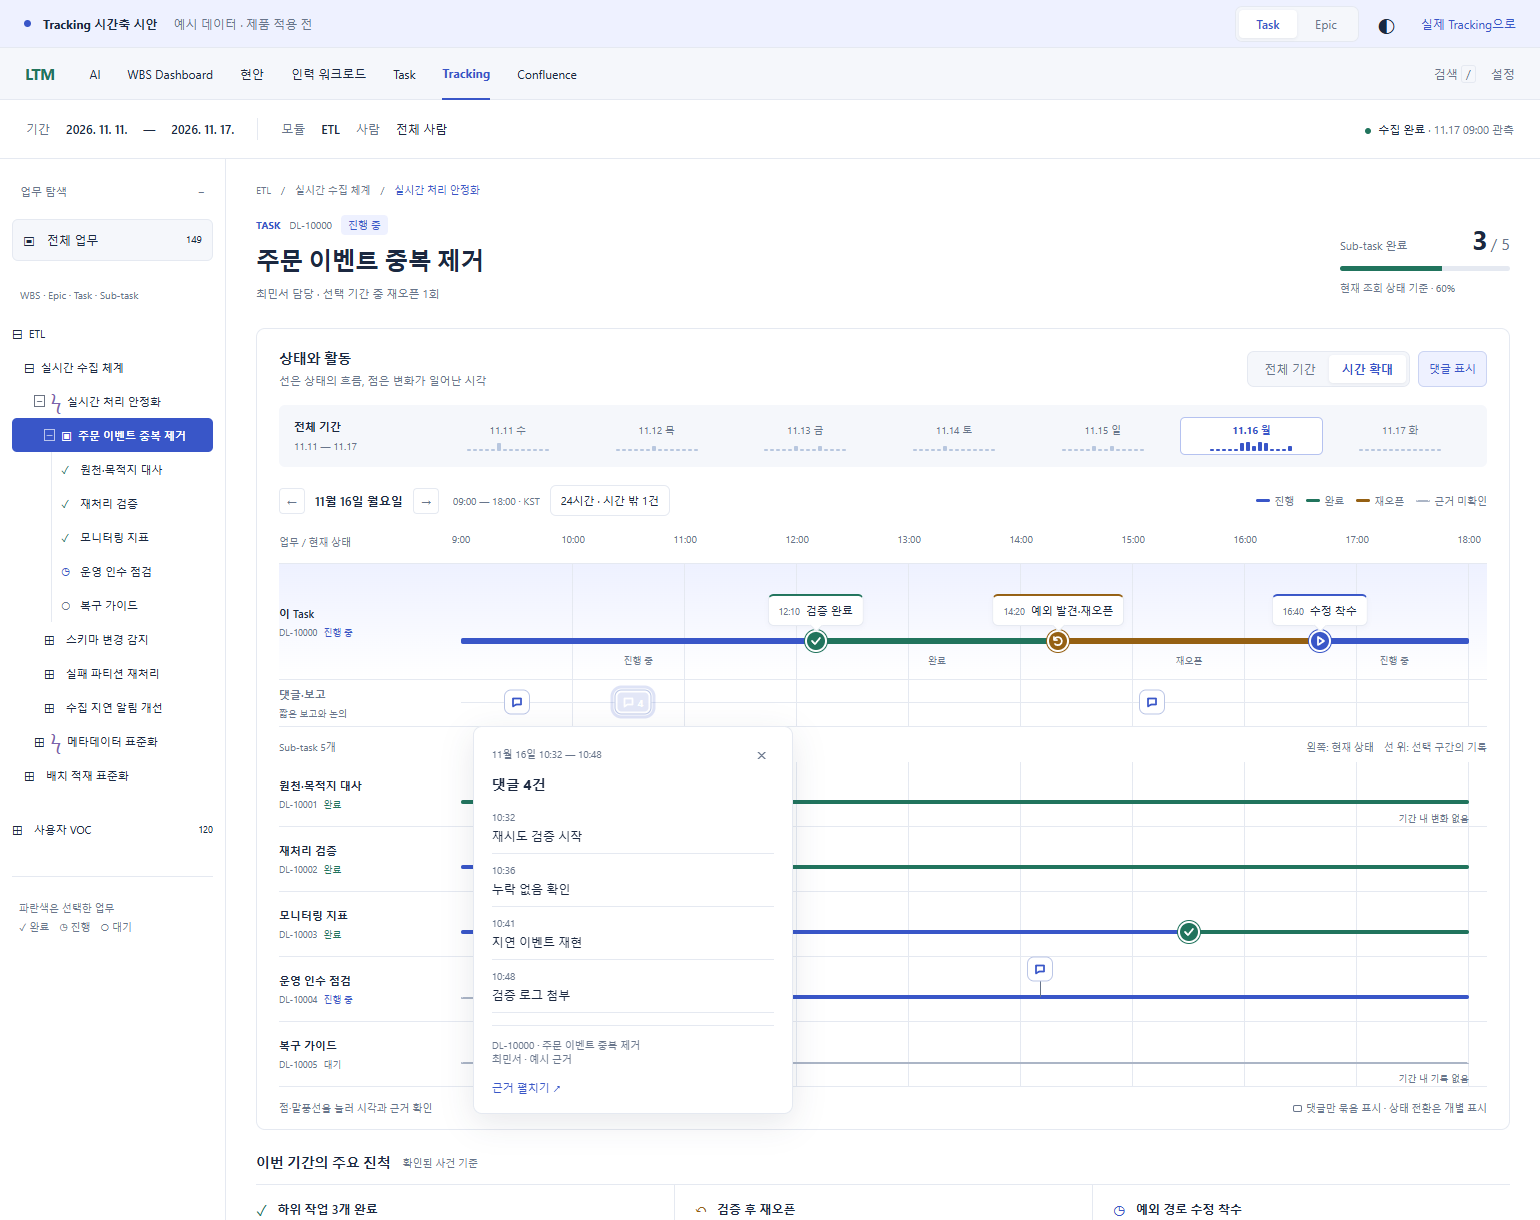
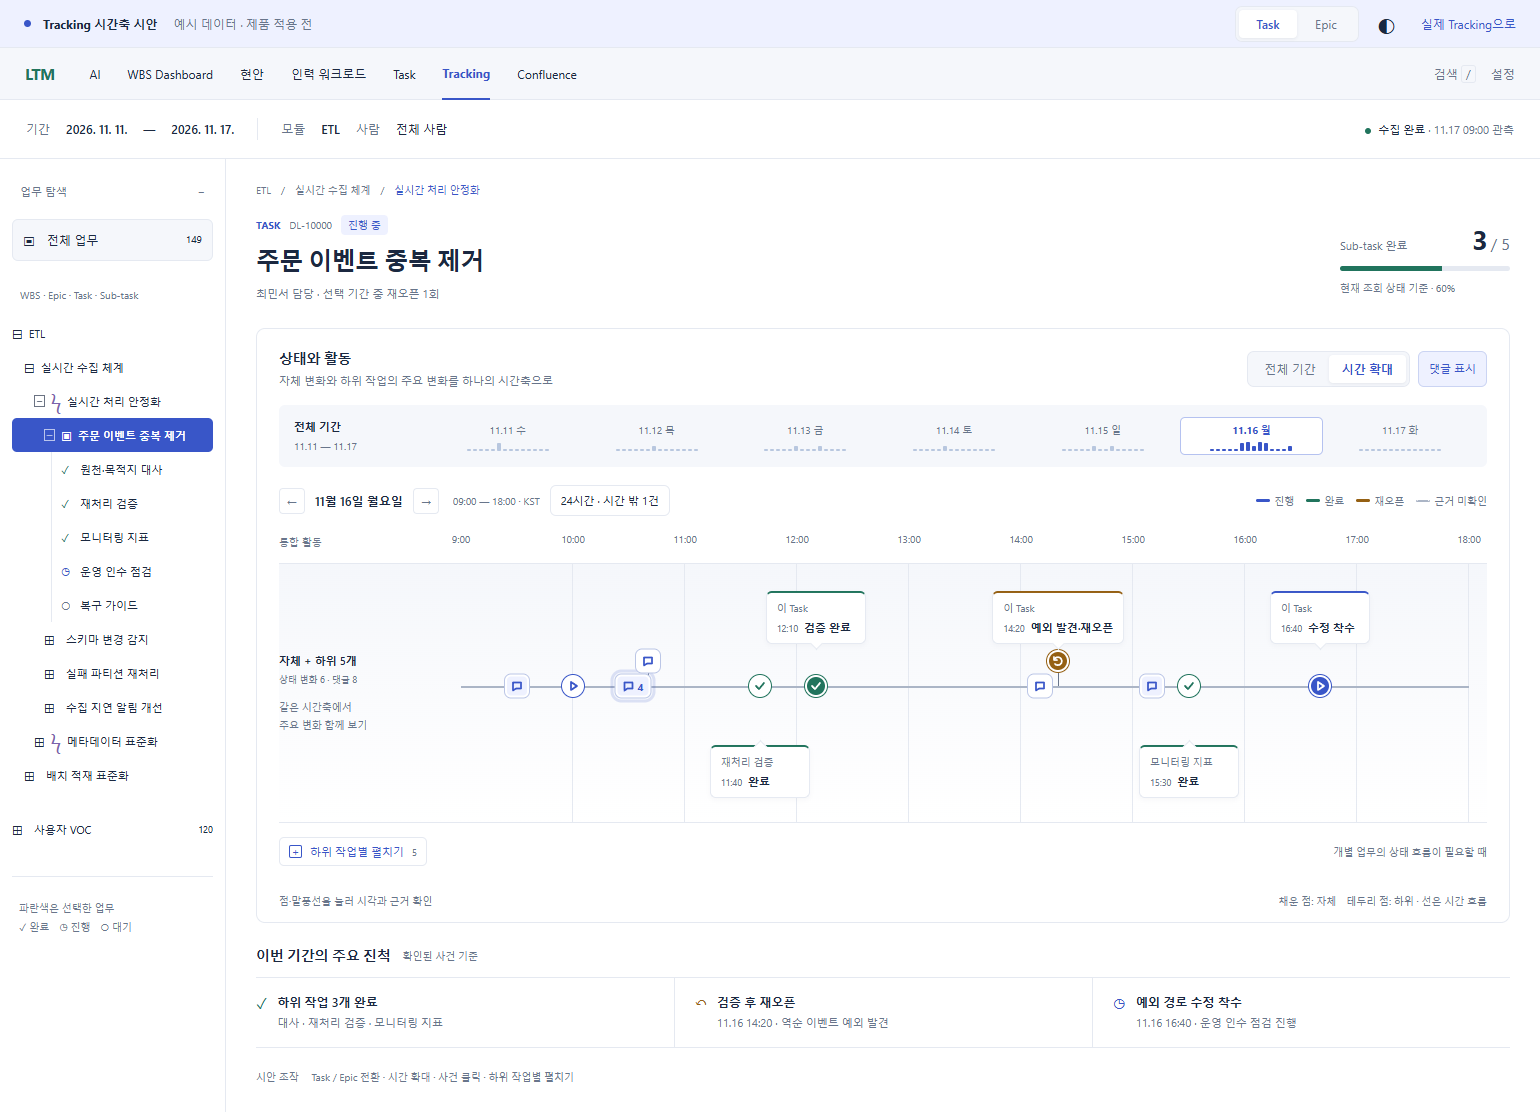
design(tracking): combine hierarchy events on the default timeline

diff --git a/app/static/design/tracking-time-axis.js b/app/static/design/tracking-time-axis.js
@@ -31,7 +31,7 @@ const epicChildren=[parent,
  {key:'DL-10060',title:'운영 가이드 정리',person:'이준서',current:'대기',events:[],comments:[]}
 ];
 const epic={key:'DL-101',title:'실시간 처리 안정화',rowLabel:'이 Epic',person:'최민서',current:'진행 중',events:[ev(12,9,30,'start','Epic 진행 시작','수집 안정화 작업의 개발·검증 착수.','progress')],comments:[ev(16,17,20,'note','인수 범위 재확인','중복 제거의 재오픈 경로를 포함해 운영 인수 범위 재확인.')]};
-let mode='task',scale='day',day=16,comments=true,fullDay=false,registry=[],activeTrigger=null;
+let mode='task',scale='day',day=16,comments=true,fullDay=false,expandedChildren=false,registry=[],activeTrigger=null;
 const color=s=>({progress:'blue',done:'green',reopen:'amber',new:'idle'}[s]||'unknown');
 const label=s=>({progress:'진행 중',done:'완료',reopen:'재오픈',new:'대기'}[s]||'근거 미확인');
 function range(){return scale==='day'?(fullDay?[at(day,0),at(day+1,0)]:[at(day,9),at(day,18)]):[at(11,0),at(18,0)];}
@@ -47,6 +47,26 @@ function groups(items){
   const last=out.at(-1);if(last&&e.at-last.at<threshold)last.members.push(e);else out.push({...e,members:[e]});
  }
  return out.map(e=>e.members.length>1?{...e,title:`댓글 ${e.members.length}건`}:e.members[0]);
+}
+function combinedAxis(owner,rows){
+ const [a,b]=range(),sources=[owner,...rows];
+ const changes=sources.flatMap(row=>row.events.filter(e=>e.at>=a&&e.at<=b).map(event=>({event,row})));
+ const notes=comments?sources.flatMap(row=>groups(row.comments).map(event=>({event,row}))):[];
+ const items=[...changes,...notes].sort((a,b)=>a.event.at-b.event.at||a.row.key.localeCompare(b.row.key));
+ let last=-100,stack=0;
+ const marks=items.map(({event,row})=>{const pos=x(event.at);stack=pos-last<3.5?stack+1:0;last=pos;
+  return dot(event,row,(event.members?'cluster ':'')+(row===owner?'own-marker':'child-marker'),stack?[0,-25,25,-50,50][stack%5]:0,122);
+ }).join('');
+ const trackEnds=[-100,-100];let callouts='';
+ for(const {event,row} of changes.filter(({event,row})=>['done','reopen'].includes(event.kind)||row===owner&&event.kind==='start')){
+  const pos=x(event.at);if(pos<10||pos>90)continue;
+  const track=trackEnds.findIndex(end=>pos-end>=20);if(track<0)continue;trackEnds[track]=pos;
+  const id=remember(event,row),source=row===owner?(mode==='task'?'이 Task':'이 Epic'):row.title;
+  const short=row===owner?event.title:({done:'완료',reopen:'재오픈',start:'진행 시작'}[event.kind]||event.title);
+  callouts+=`<button class="bubble summary-callout ${track?'below':''} ${event.kind==='done'?'done':event.kind==='reopen'?'reopen':'blue-top'}" style="--x:${pos}%;--callout-y:${track?181:27}px" data-event="${id}" aria-label="${esc(full(event.at)+' '+row.title+' '+event.title+' 근거')}"><span class="summary-source">${esc(source)}</span><span class="time">${scale==='period'?full(event.at):fmt(event.at)}</span><strong>${esc(short)}</strong></button>`;
+ }
+ const noteCount=notes.reduce((sum,{event})=>sum+(event.members?.length||1),0);
+ return `<div class="lane combined" data-change-count="${changes.length}" data-comment-count="${noteCount}"><div class="lane-label"><div class="lane-title">자체 + 하위 ${rows.length}개</div><div class="lane-meta">상태 변화 ${changes.length} · 댓글 ${noteCount}</div><p class="summary-label-note">같은 시간축에서<br>주요 변화 함께 보기</p></div><div class="lane-body" style="--rail-y:122px;height:258px"><div class="rail"></div>${marks}${callouts}${items.length?'':'<span class="summary-empty">이 구간에 확인된 활동 없음</span>'}</div></div>`;
 }
 function lane(row,primary=false,commentOnly=false){
  const [a,b]=range(),events=row.events.filter(e=>e.at>=a&&e.at<=b),all=row.events.filter(e=>e.at<=b).sort((a,b)=>a.at-b.at);
@@ -88,7 +108,9 @@ function render(){
  const outside=(mode==='task'?[parent,...rows]:[epic,...rows]).flatMap(r=>[...r.events,...r.comments]).filter(e=>e.at>=at(day,0)&&e.at<at(day+1,0)&&(e.at<at(day,9)||e.at>at(day,18))).length;
  $('#fullDay').hidden=scale==='period';$('#fullDay').textContent=fullDay?'09–18시 보기':outside?`24시간 · 시간 밖 ${outside}건`:'24시간 보기';$('#fullDay').setAttribute('aria-pressed',String(fullDay));
  $('#ticks').innerHTML=scale==='day'?(fullDay?Array.from({length:9},(_,i)=>`<time class="tick" style="left:${i/8*100}%">${i*3}:00</time>`).join(''):Array.from({length:10},(_,i)=>`<time class="tick" style="left:${i/9*100}%">${9+i}:00</time>`).join('')):Array.from({length:8},(_,i)=>`<time class="tick" style="left:${i/7*100}%">11.${11+i} 00시</time>`).join('');
- $('#lanes').innerHTML=(mode==='task'?lane(parent,true)+(comments?lane(parent,false,true):''):lane(epic))+`<div class="group-heading"><span>${mode==='task'?'Sub-task':'하위 Task'} ${rows.length}개</span><span>왼쪽: 현재 상태　선 위: 선택 구간의 기록</span></div>`+rows.map(r=>lane(r)).join('');
+ $('#lanes').innerHTML=combinedAxis(mode==='task'?parent:epic,rows);
+ $('#childrenToggle').innerHTML=`<span class="fold-symbol">${expandedChildren?'−':'+'}</span>하위 작업별 ${expandedChildren?'접기':'펼치기'} <small>${rows.length}</small>`;$('#childrenToggle').setAttribute('aria-expanded',String(expandedChildren));
+ $('#childLanes').hidden=!expandedChildren;$('#childLanes').innerHTML=expandedChildren?`<div class="group-heading"><span>${mode==='task'?'Sub-task':'하위 Task'}별 상태 흐름</span><span>위 통합 축과 같은 사건 · 선은 각 업무의 상태</span></div>`+rows.map(r=>lane(r)).join(''):'';
  $$('.lane-body').forEach(e=>e.style.backgroundSize=scale==='day'?(fullDay?'112.5% 100%':'100% 100%'):'128.5714% 100%');
  $('#chartHint').textContent=scale==='day'?'점·말풍선을 눌러 시각과 근거 확인':'날짜를 눌러 시간 확대 · 간격은 실제 경과 시간';
  $('#resultItems').innerHTML=mode==='task'?'<div class="result-item"><span class="result-icon">✓</span><div><b>하위 작업 3개 완료</b><p>대사 · 재처리 검증 · 모니터링 지표</p></div></div><div class="result-item"><span class="result-icon" style="color:var(--amber)">↶</span><div><b>검증 후 재오픈</b><p>11.16 14:20 · 역순 이벤트 예외 발견</p></div></div><div class="result-item"><span class="result-icon" style="color:var(--blue)">◷</span><div><b>예외 경로 수정 착수</b><p>11.16 16:40 · 운영 인수 점검 진행</p></div></div>':'<div class="result-item"><span class="result-icon">✓</span><div><b>Task 3개 완료</b><p>스키마 감지 · 재처리 · 지연 알림</p></div></div><div class="result-item"><span class="result-icon" style="color:var(--amber)">↶</span><div><b>중복 제거 Task 재확인</b><p>검증 이후 예외 발견 · 수정 착수</p></div></div><div class="result-item"><span class="result-icon" style="color:var(--blue)">◷</span><div><b>현재 진행 2개 · 대기 1개</b><p>활동량과 완료 비율을 구분해 표시</p></div></div>';
@@ -100,9 +122,10 @@ function openEvent(id,trigger){
  p.hidden=false;const rect=trigger.getBoundingClientRect();p.style.left=Math.max(12,Math.min(innerWidth-332,rect.left+rect.width/2-160))+'px';p.style.top=Math.max(12,Math.min(innerHeight-p.offsetHeight-12,rect.bottom+12))+'px';$('#closePopover').onclick=()=>closePopover();$('#closePopover').focus({preventScroll:true});
  $('#showEvidence').onclick=()=>{const evidence=$('#evidence');evidence.innerHTML=`<button id="closeEvidence">접기</button><h3>${esc(e.row.title)} · ${esc(e.title)}</h3><p>${esc(e.row.person)} · ${esc(e.row.key)} · 시안용 예시 근거</p>${(e.members||[e]).map(item=>`<blockquote><b>${esc(full(item.at)+' · '+item.title)}</b><br>${esc(item.body)}</blockquote>`).join('')}`;evidence.hidden=false;closePopover(false);$('#closeEvidence').onclick=()=>{evidence.hidden=true;};evidence.scrollIntoView({behavior:matchMedia('(prefers-reduced-motion:reduce)').matches?'instant':'smooth',block:'nearest'});};
 }
-document.addEventListener('click',e=>{const b=e.target.closest('button');if(b?.dataset.mode){mode=b.dataset.mode;render();}else if(b?.dataset.scale){scale=b.dataset.scale;render();}else if(b?.dataset.day){day=Number(b.dataset.day);scale='day';render();}else if(b?.dataset.event!==undefined)openEvent(Number(b.dataset.event),b);else if(!e.target.closest('#popover'))closePopover(false);});
+document.addEventListener('click',e=>{const b=e.target.closest('button');if(b?.dataset.mode){mode=b.dataset.mode;expandedChildren=false;render();}else if(b?.dataset.scale){scale=b.dataset.scale;render();}else if(b?.dataset.day){day=Number(b.dataset.day);scale='day';render();}else if(b?.dataset.event!==undefined)openEvent(Number(b.dataset.event),b);else if(!e.target.closest('#popover'))closePopover(false);});
 document.addEventListener('keydown',e=>{if(e.key==='Escape')closePopover();});
 $('#prevDay').onclick=()=>{day--;render();};$('#nextDay').onclick=()=>{day++;render();};$('#commentsToggle').onclick=()=>{comments=!comments;render();};
 $('#fullDay').onclick=()=>{fullDay=!fullDay;render();};
+$('#childrenToggle').onclick=()=>{expandedChildren=!expandedChildren;render();};
 $('#theme').onclick=()=>{const dark=document.documentElement.dataset.theme!=='dark';document.documentElement.dataset.theme=dark?'dark':'light';$('#theme').setAttribute('aria-label',dark?'밝은 테마로 보기':'어두운 테마로 보기');};
 window.addEventListener('resize',()=>closePopover(false));render();

diff --git a/app/static/design/tracking-time-axis.html b/app/static/design/tracking-time-axis.html
@@ -20,15 +20,15 @@
     <nav class="breadcrumbs">ETL <span>/</span> 실시간 수집 체계 <span>/</span><span id="breadcrumb">실시간 처리 안정화</span></nav>
     <div class="title-row"><div><div class="ticket-meta"><span id="ticketType">TASK</span><span id="ticketKey">DL-10000</span><span class="status" id="currentStatus">진행 중</span></div><h1 id="ticketTitle">주문 이벤트 중복 제거</h1><p class="byline" id="byline">최민서 담당 · 선택 기간 중 재오픈 1회</p></div><div class="completion"><div><span id="progressLabel">Sub-task 완료</span><strong id="progressValue">3<span>/ 5</span></strong></div><div class="completion-track"><i id="progressFill" style="width:60%"></i></div><small id="progressNote">현재 조회 상태 기준 · 60%</small></div></div>
     <section class="timeline" aria-label="시간별 상태와 활동 시안">
-      <header class="timeline-header"><div><h2>상태와 활동</h2><p>선은 상태의 흐름, 점은 변화가 일어난 시각</p></div><div class="timeline-controls"><div class="segmented" aria-label="시간축 배율"><button data-scale="period" aria-pressed="false">전체 기간</button><button data-scale="day" class="selected" aria-pressed="true">시간 확대</button></div><button id="commentsToggle" class="outline selected" aria-pressed="true">댓글 표시</button></div></header>
+      <header class="timeline-header"><div><h2>상태와 활동</h2><p>자체 변화와 하위 작업의 주요 변화를 하나의 시간축으로</p></div><div class="timeline-controls"><div class="segmented" aria-label="시간축 배율"><button data-scale="period" aria-pressed="false">전체 기간</button><button data-scale="day" class="selected" aria-pressed="true">시간 확대</button></div><button id="commentsToggle" class="outline selected" aria-pressed="true">댓글 표시</button></div></header>
       <div class="period-strip"><div class="period-caption">전체 기간 <span>11.11 — 11.17</span></div><div class="overview" id="overview" aria-label="날짜를 선택해 시간 확대"></div></div>
       <div class="axis-toolbar"><div><button id="prevDay" class="square" aria-label="이전 날짜">←</button><strong id="windowLabel">11월 16일 월요일</strong><button id="nextDay" class="square" aria-label="다음 날짜">→</button><span class="window-time" id="windowTime">09:00 — 18:00 · KST</span><button id="fullDay" class="outline" aria-pressed="false">24시간 보기</button></div><div class="legend"><span><i class="legend-line blue"></i>진행</span><span><i class="legend-line green"></i>완료</span><span><i class="legend-line amber"></i>재오픈</span><span><i class="legend-line unknown"></i>근거 미확인</span></div></div>
-      <div class="chart-scroll"><div id="chart" class="chart"><div class="ruler"><div class="ruler-label">업무 / 현재 상태</div><div id="ticks" class="ticks"></div></div><div id="lanes"></div></div></div>
-      <div class="chart-footer"><span id="chartHint">점·말풍선을 눌러 시각과 근거 확인</span><span><i class="tiny-comment"></i>댓글만 묶음 표시 · 상태 전환은 개별 표시</span></div>
+      <div class="chart-scroll"><div id="chart" class="chart"><div class="ruler"><div class="ruler-label">통합 활동</div><div id="ticks" class="ticks"></div></div><div id="lanes"></div><div class="child-expansion"><button id="childrenToggle" aria-expanded="false" aria-controls="childLanes"><span class="fold-symbol">+</span>하위 작업별 펼치기</button><span>개별 업무의 상태 흐름이 필요할 때</span></div><div id="childLanes" hidden></div></div></div>
+      <div class="chart-footer"><span id="chartHint">점·말풍선을 눌러 시각과 근거 확인</span><span>채운 점: 자체　테두리 점: 하위 · 선은 시간 흐름</span></div>
       <div class="selected-evidence" id="evidence" hidden></div>
     </section>
     <section class="results"><div><h2 id="resultsTitle">이번 기간의 주요 진척</h2><span class="muted">확인된 사건 기준</span></div><div id="resultItems" class="result-items"></div></section>
-    <div class="design-note"><b>시안 조작</b> Task / Epic 전환 · 날짜 선택 · 전체 기간 / 시간 확대 · 사건 클릭 · 댓글 묶음 펼치기</div>
+    <div class="design-note"><b>시안 조작</b> Task / Epic 전환 · 시간 확대 · 사건 클릭 · 하위 작업별 펼치기</div>
   </main>
 </div>
 <div class="event-popover" id="popover" role="dialog" aria-modal="false" aria-labelledby="popoverTitle" hidden></div>

diff --git a/app/static/design/tracking-time-axis.css b/app/static/design/tracking-time-axis.css
@@ -7,3 +7,6 @@ html[data-theme=dark]{--ink:#e4eaf4;--muted:#9aaac1;--line:#2a374d;--bg:#131e2e;
 .marker-stem{position:absolute;width:1px;background:var(--muted);z-index:1}.state-segment.idle{background:#abb5c6}
 
 .lane .rail,.lane .event-dot{top:var(--rail-y)}.lane .state-segment{top:calc(var(--rail-y) - 2px)}.lane.primary .state-segment{top:calc(var(--rail-y) - 3px)}.lane .state-segment.unknown{top:var(--rail-y)}.lane .end-caption{top:calc(var(--rail-y) + 10px)}
+
+/* One shared chronological axis is the default; per-ticket states are opt-in. */
+.combined{background:linear-gradient(var(--bg),var(--panel))}.combined .rail{height:2px;background:#abb5c6}.combined .lane-label{align-self:center}.summary-label-note{font-size:10px;line-height:1.8;color:var(--muted);margin-top:13px}.combined .child-marker{background:var(--panel);color:var(--blue)}.combined .child-marker.done{color:var(--green)}.combined .child-marker.reopen{color:var(--amber)}.combined .own-marker{border-width:2px}.combined .event-dot.note.own-marker{background:var(--blue-light);color:var(--blue)}.summary-callout{top:var(--callout-y);bottom:auto;max-width:180px;min-width:100px;text-align:left;padding:8px 10px}.summary-source{display:block;font-size:10px;color:var(--muted);margin-bottom:5px;max-width:150px;overflow:hidden;text-overflow:ellipsis}.summary-callout strong{font-size:11px;font-weight:550}.summary-callout.below:after{bottom:auto;top:-5px;border-bottom:0;border-right:0;border-top:1px solid var(--line);border-left:1px solid var(--line)}.child-expansion{padding:14px 0;display:flex;align-items:center;justify-content:space-between;gap:12px}.child-expansion>span{font-size:10px;color:var(--muted)}.child-expansion button{display:flex;gap:8px;align-items:center;padding:6px 9px;border:1px solid var(--line);border-radius:5px;font-size:11px;color:var(--blue)}.child-expansion small{color:var(--muted);font-variant-numeric:tabular-nums}.fold-symbol{width:13px;height:13px;border:1px solid currentColor;border-radius:2px;display:grid;place-items:center;font-size:11px;line-height:1}.summary-empty{position:absolute;top:145px;left:0;font-size:11px;color:var(--muted)}

diff --git a/docs/design/tracking/time-axis-proposal.md b/docs/design/tracking/time-axis-proposal.md
@@ -8,8 +8,9 @@
 날짜별 긴 텍스트 열을 없애고 실제 시각에 놓인 점·선·아이콘·짧은 말풍선으로 변화 표현.
 기존 Tracking의 청색·녹색·회색 역할, 좌측 계층, 상단 조회 조건 유지. 데스크톱 대상.
 
-- 추천: 실제 시간축 + 업무별 행. Task 자체 상태를 먼저 읽고 직속 하위 작업을 같은 축에서 비교.
-- 단일 활동선: 단일 티켓에는 간결하지만 Epic·Sub-task의 변화 주체를 읽기 어려움. 댓글 보조 행에만 적용.
+- 기본: 단일 통합 시간축. 자체 사건과 직속 하위 작업의 주요 변화를 한 선에 함께 표시.
+- 개별 업무 행: `하위 작업별 펼치기`를 선택할 때만 표시. Task·Epic 모두 기본 접힘.
+- 변화 주체는 말풍선의 업무명, 표식의 자체/하위 표현, 원본 근거의 업무명·키로 식별.
 - 날짜별 열: 빈 날짜와 장문이 영역을 차지하는 기존 문제를 반복하므로 제외.
 
 ## 화면
@@ -18,16 +19,18 @@
 - 작은 전체 기간 띠: 시간대별 활동 밀도와 현재 확대 날짜. 밀도는 진척이 아니라 탐색 단서.
 - 전체 기간: 실제 경과 시간의 간격 유지. 날짜 선택 시 해당 날짜의 시간 눈금 확대.
 - 시간 확대: 09–18시 / 24시간 전환. 좁은 범위 밖 사건 수를 버튼에 표시하고 24시간으로 바로 확인. 야간 23:10 댓글 예시 포함.
-- Task: 자체 상태선 / 자체 댓글 / Sub-task별 상태·주요 변화. 이름과 키는 행 왼쪽에 한 번만 표시.
-- Epic: 자체 상태·댓글을 짧은 첫 행으로 유지하고 아래에 하위 Task별 상태선 배치. 완료·재오픈과 현재 상태를 함께 비교.
-- 현재 상태는 행 왼쪽, 역사적 상태는 선에 표시. 과거 근거가 없으면 점선. 빈 기록을 미진척으로 해석하지 않음.
+- Task: 자체 사건과 Sub-task 주요 변화를 한 축으로 요약. Epic: 자체 사건과 하위 Task 주요 변화를 한 축으로 요약.
+- 통합 축은 중립색의 시간 흐름. 서로 다른 업무의 상태를 하나의 상태선으로 합성하지 않음.
+- 채운 상태 표식은 자체 사건, 테두리 상태 표식은 하위 사건. 말풍선에 해당 업무명을 표시.
+- 확장 시 하위 작업별 상태선을 추가. 현재 상태는 행 왼쪽, 역사적 상태는 선에 표시. 과거 근거가 없으면 점선. 빈 기록을 미진척으로 해석하지 않음.
+- 확장·접기 전후 통합 축, 완료 수, 사건 수, 선택 시간 범위 동일. 같은 사건의 중복 렌더링을 새 사건으로 집계하지 않음.
 
 ## 사건과 밀집 처리
 
 - 진행: 청색 선·재생 표식. 완료: 녹색 선·체크. 재오픈: 황색 선·되돌림. 색과 모양 함께 사용.
 - 댓글: 말풍선 아이콘. 가까운 댓글만 숫자 묶음으로 표시하며 클릭하면 시작/끝 시각과 개별 항목 확인. 근거 펼치기는 묶음 전체의 본문을 시각·제목별로 구분.
 - 상태 전환은 묶지 않음. 좁은 구간에서 점의 x좌표를 유지한 채 세로로 분리하고 연결선 표시.
-- 대표 말풍선은 최대 3개, 시각 + 짧은 제목. 공간이 모자라면 기본 말풍선을 생략하고 사건 점은 유지.
+- 대표 말풍선은 업무명 + 시각 + 짧은 변화로 표시. 위아래로 배치해 겹침을 피하고 공간이 모자라면 사건 점만 유지.
 - 클릭·키보드로 말풍선 열기. 정확한 시각, 업무명·키, 짧은 설명, 근거 펼치기. Esc 닫기·원래 표식으로 포커스 복귀.
 - 댓글 원문·긴 증빙은 시간축 밖의 근거 영역에서 확인. 자체/하위 사건과 현재 선택 범위 계약 유지.
 - 일괄 펼치기 시 긴 본문을 시간축에 쌓지 않음. 요약 행과 세부 근거의 역할 분리.
@@ -46,6 +49,9 @@
 1540px Task/Epic 및 1280px 어두운 테마에서 화면 확인. 페이지 가로 넘침·브라우저 오류 없음.
 날짜/배율 전환, 23:10 야간 사건 접근, 댓글 4개 묶음과 본문 4개, Esc·포커스 복귀, 근거 펼치기, 댓글 표시 토글 확인.
 이동·상호작용 중 API 요청 0건. JS 문법 검사·diff 공백 검사 통과.
+단일 축 기본값과 Task 하위 5행 / Epic 하위 6행 확장 검증. 접기 전후 완료 수·사건 수·시간 범위 동일.
+하위 완료 사건의 근거가 해당 티켓 `DL-10002`로 연결됨을 확인. 댓글은 같은 출처끼리만 묶음.
 제품 적용 전 사용자가 시안을 검토할 수 있는 독립 HTML/CSS/JS 산출물.
 
 정적 미리보기: `/design/tracking-time-axis-task.png`, `/design/tracking-time-axis-epic.png`, `/design/tracking-time-axis-comments.png`.
+확장 예시: `/design/tracking-time-axis-expanded.png`.

diff --git a/.omd/preferences.md b/.omd/preferences.md
@@ -19,3 +19,18 @@ source_context: "docs/design/tracking/time-axis-proposal.md"
 ```
 
 Use time-positioned dots, lines, icons and short speech bubbles for Tracking timelines instead of long date-based text columns.
+
+## 2026-11-17T01:40:23.668Z — combined-axis-default-expand-child-lanes
+
+```omd-meta
+id: pref_mwk0zh84_7f1a8d21
+timestamp: 2026-11-17T01:40:23.668Z
+scope: components.timeline
+signal: user-correction
+confidence: explicit
+status: pending
+source_agent: codex
+source_context: "docs/design/tracking/time-axis-proposal.md"
+```
+
+Summarize parent and child task events on one shared timeline axis by default; show individual child timelines only through an explicit expansion option.
